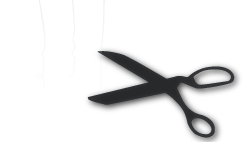
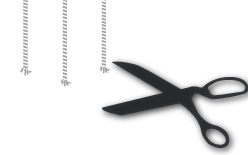
style scissors

Changed region(s): [[0.3387, 0.0, 1.0, 1.0], [0.2258, 0.0, 0.2823, 0.5634], [0.0847, 0.0, 0.1411, 0.507]]

diff --git a/css/qtf.css b/css/qtf.css
@@ -118,7 +118,7 @@ border: 1px solid red; */
 	display: block;
 	width: 120%;
 	height: 143px;
-	background: url(../images/theman/scissor_l.png) no-repeat right 0, url(../images/theman/scissor_r.png) no-repeat left 0 transparent;
+	background: url(../images/theman/scissor_l.png) no-repeat right -15px, url(../images/theman/scissor_r.png) no-repeat left -15px transparent;
 	position: absolute;
 	bottom: -146px;
 	margin: 0 auto;
@@ -159,7 +159,7 @@ border: 1px solid red; */
 	line-height: 1.4em; 
 	clear: both;
 	display: block;
-	margin-bottom: 10px;
+	
 }
 .ficha{
 	background-color: #1E2224;
@@ -167,19 +167,30 @@ border: 1px solid red; */
 	margin: 0;
 	padding: 10px 2px 5px;
 }
+
 .content .ficha img{border: none;}
 
 .theWhiteBox .ficha{
-
 	background-color: #d2d2d2;
 	color: #000;
-}
-.theWhiteBox .ficha a.cName{ color: #000;
-	}
+}	
 
-.content .theWhiteBox hr, .theBlackBox hr{
-margin: 1em;
-background-image: url(../images/rope-hr.png);
-background-position: center;
-height: 10px;
+.theWhiteBox .ficha a.cName{ 
+	color: #000;
+}
+
+.content .theBlackBox hr{
+	height: 10px;
+	margin: 1em;
+}
+
+.content .theWhiteBox hr{
+	margin: 1em;
+	background-image: url(../images/rope-hr.png);
+	background-position: center;
+	height: 10px;
+}
+small.actionQTF{ 
+	line-height: 25px;
+	color: rgb(255, 92, 0);
 }
